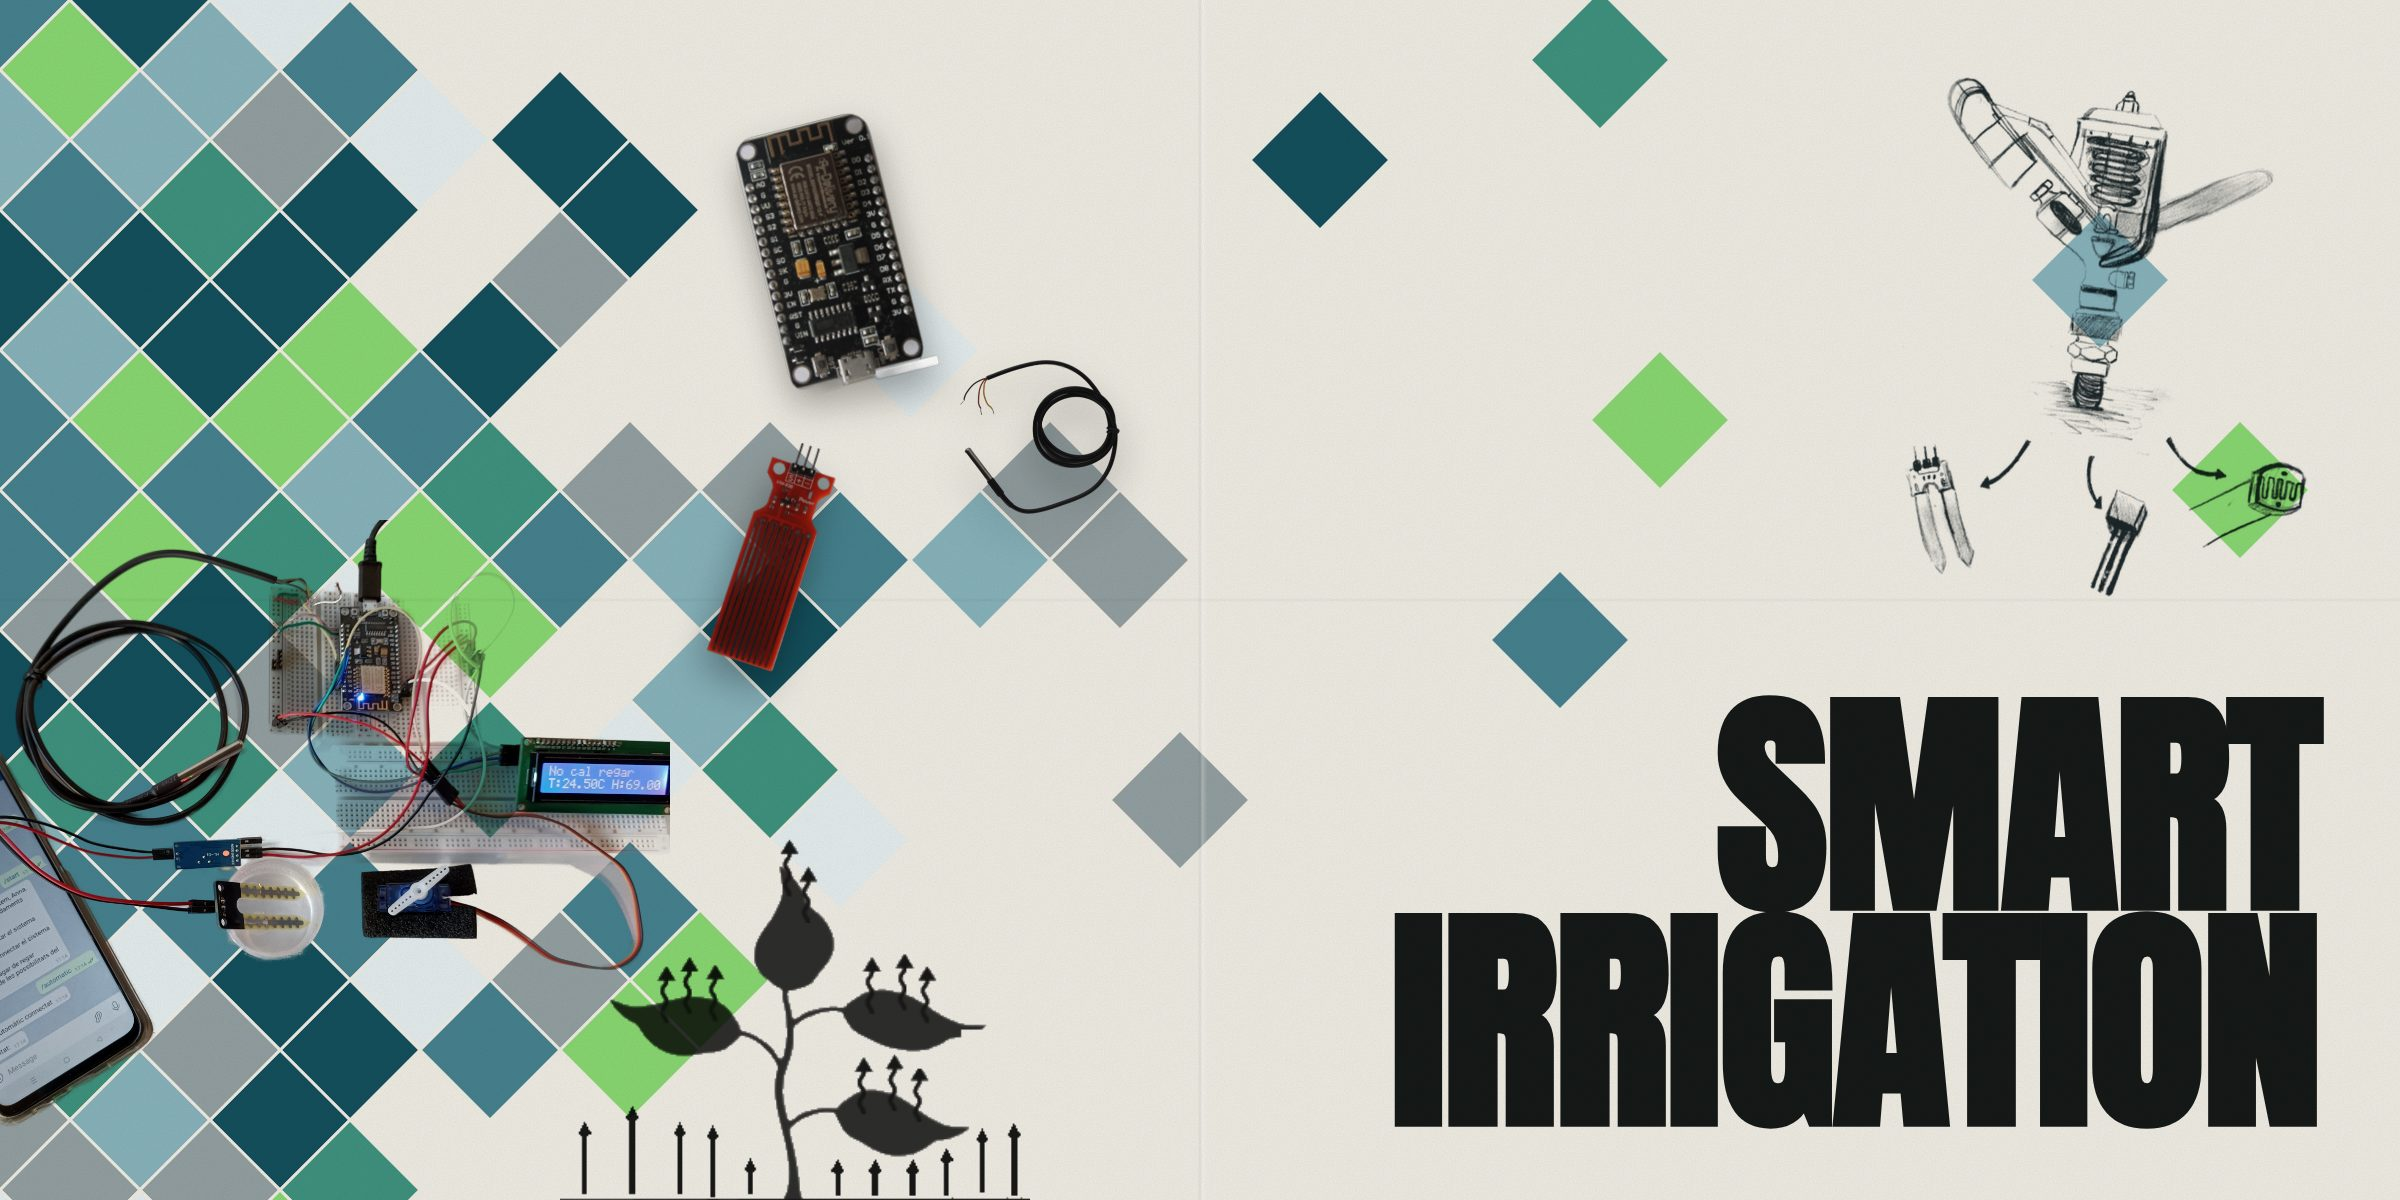
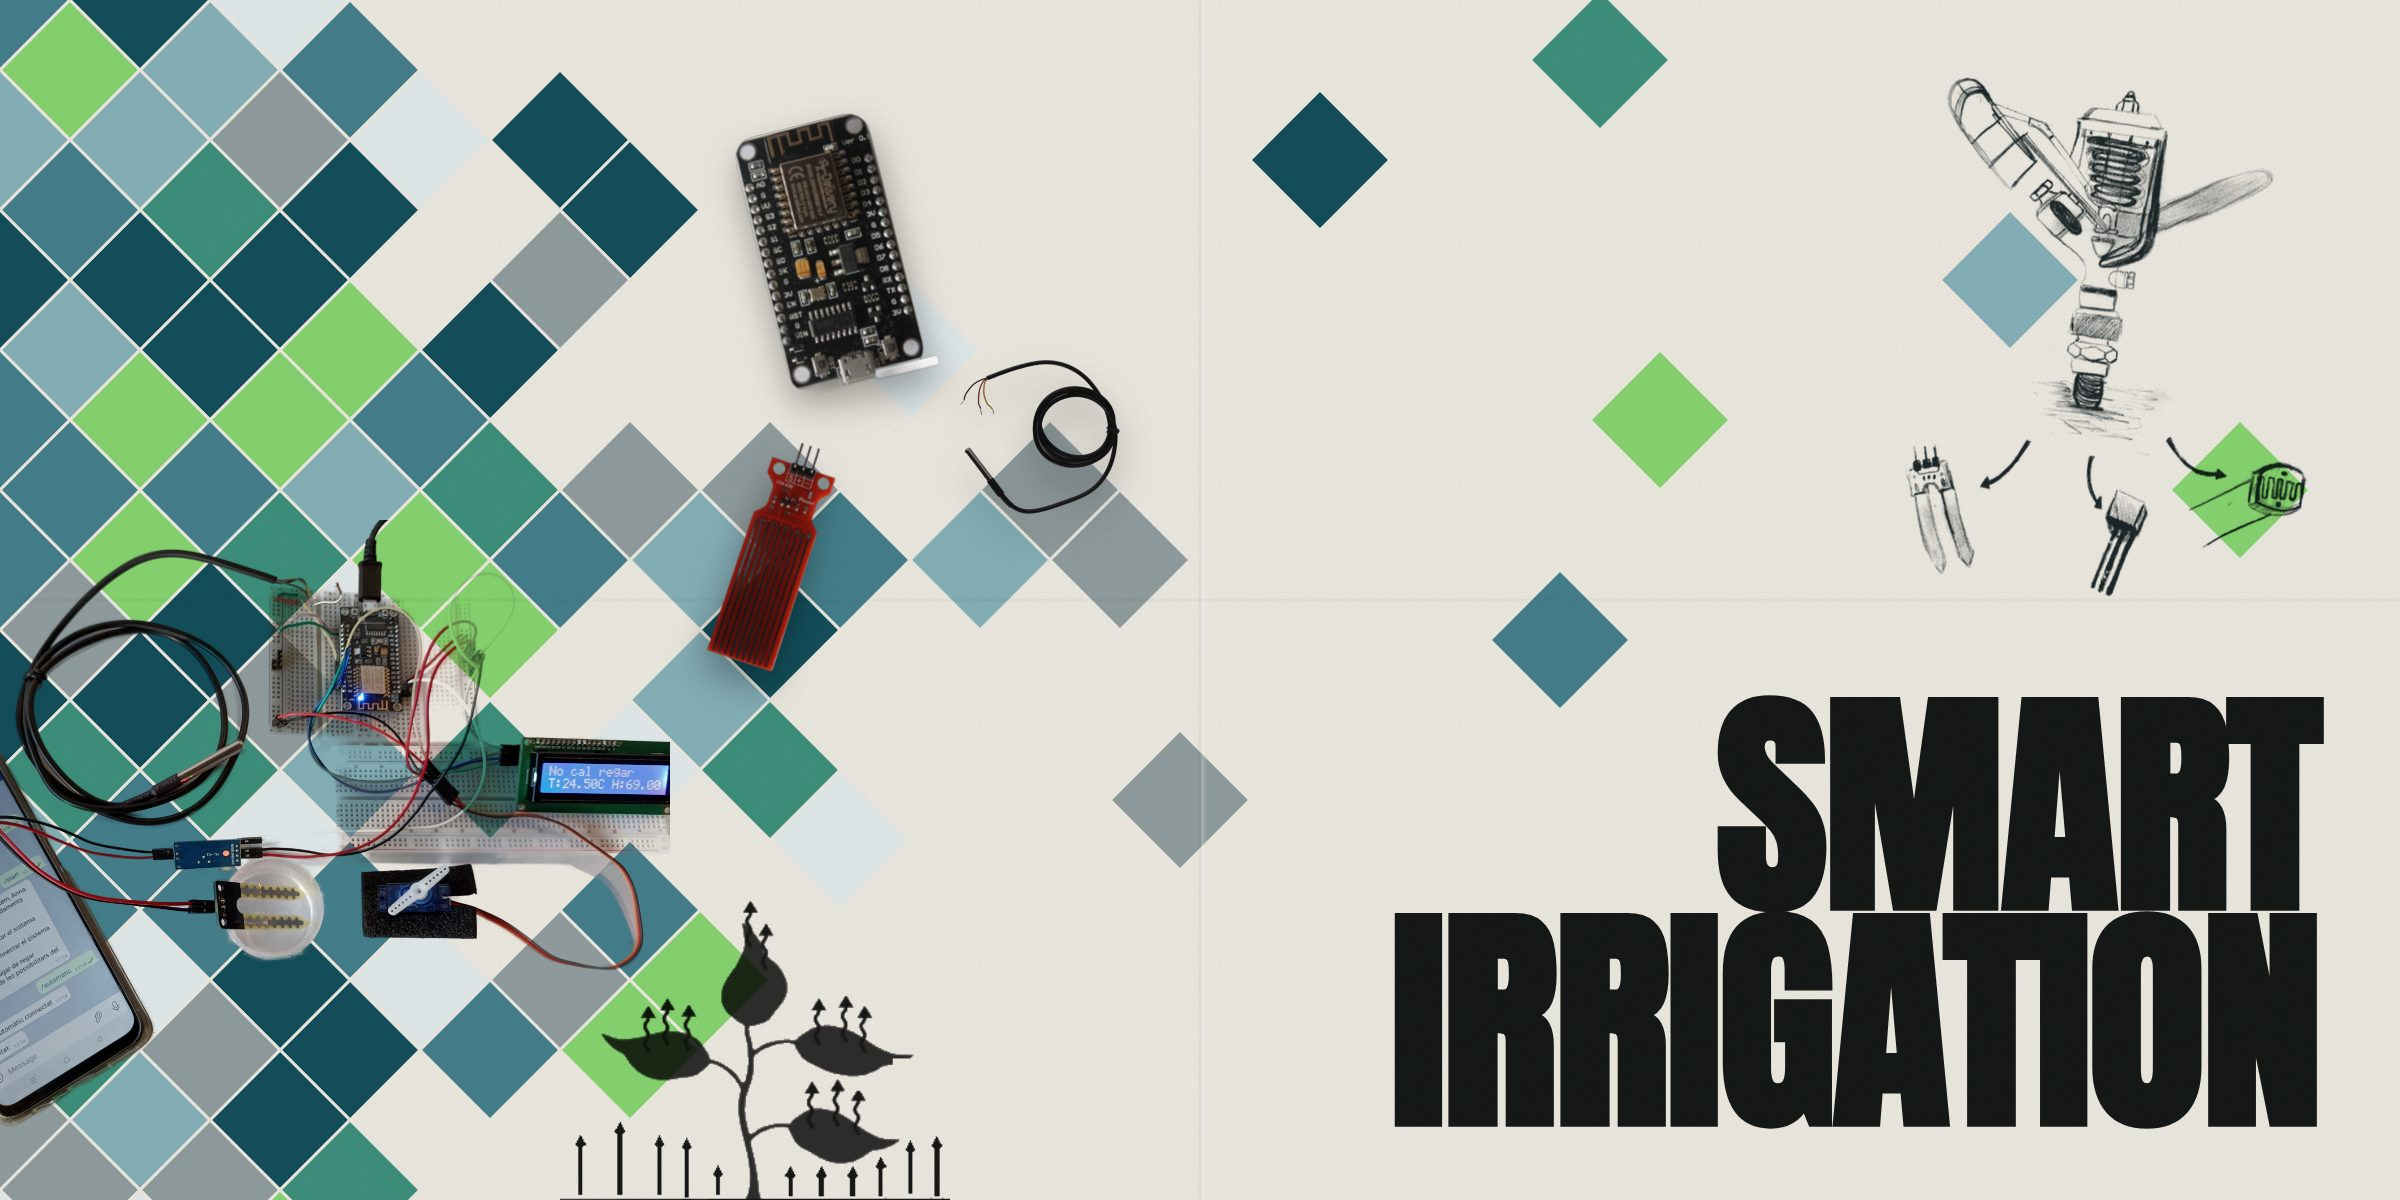
Billboard: smaller plant, nudge tile behind the sketch left
Claude-Session: https://claude.ai/code/session_01PchemtfrPnXx57Zg6o9MzX

Changed region(s): [[0.2188, 0.7092, 0.4375, 1.0], [0.8125, 0.185, 0.9062, 0.2775]]

diff --git a/billboard/smart-irrigation.html b/billboard/smart-irrigation.html
@@ -36,7 +36,7 @@
   .photo { left: -150px; top: 520px; width: 820px; z-index: 7; filter: saturate(.8) contrast(1.05); }
   .sketch { left: 1900px; top: 90px; width: 420px; height: 520px; z-index: 5; mix-blend-mode: multiply;
     background: url("../images/smart-irrigation/sketch.png") center top / contain no-repeat; transform: rotate(6deg); }
-  .plant { left: 560px; bottom: -5px; width: 470px; z-index: 4; filter: brightness(0); opacity: .9; } /* drawn in black, between the two layers of tiles */
+  .plant { left: 560px; bottom: -4px; width: 390px; z-index: 4; filter: brightness(0); opacity: .9; } /* drawn in black, between the two layers of tiles */
   .comp { z-index: 8; filter: drop-shadow(0 18px 18px rgba(0,0,0,.35)); }
   .c-node { left: 760px; top: 120px; width: 150px; transform: rotate(-14deg); }
   .c-temp { left: 960px; top: 360px; width: 160px; }
@@ -76,7 +76,7 @@
     }
   }
   out += dia(1660, 420, "#88d671") + dia(1560, 640, "#45818e") + dia(1320, 160, "#134f5c") +
-    dia(2100, 280, "#87b2bb") + dia(2240, 490, "#88d671") + /* behind the sketch */
+    dia(2010, 280, "#87b2bb") + dia(2240, 490, "#88d671") + /* behind the sketch */
     dia(1180, 800, "#929ea0") + dia(1600, 60, "#3e917e");
   document.getElementById("tiles").innerHTML = out;
   document.getElementById("tiles-front").innerHTML = front; // these sit over the plant scheme
